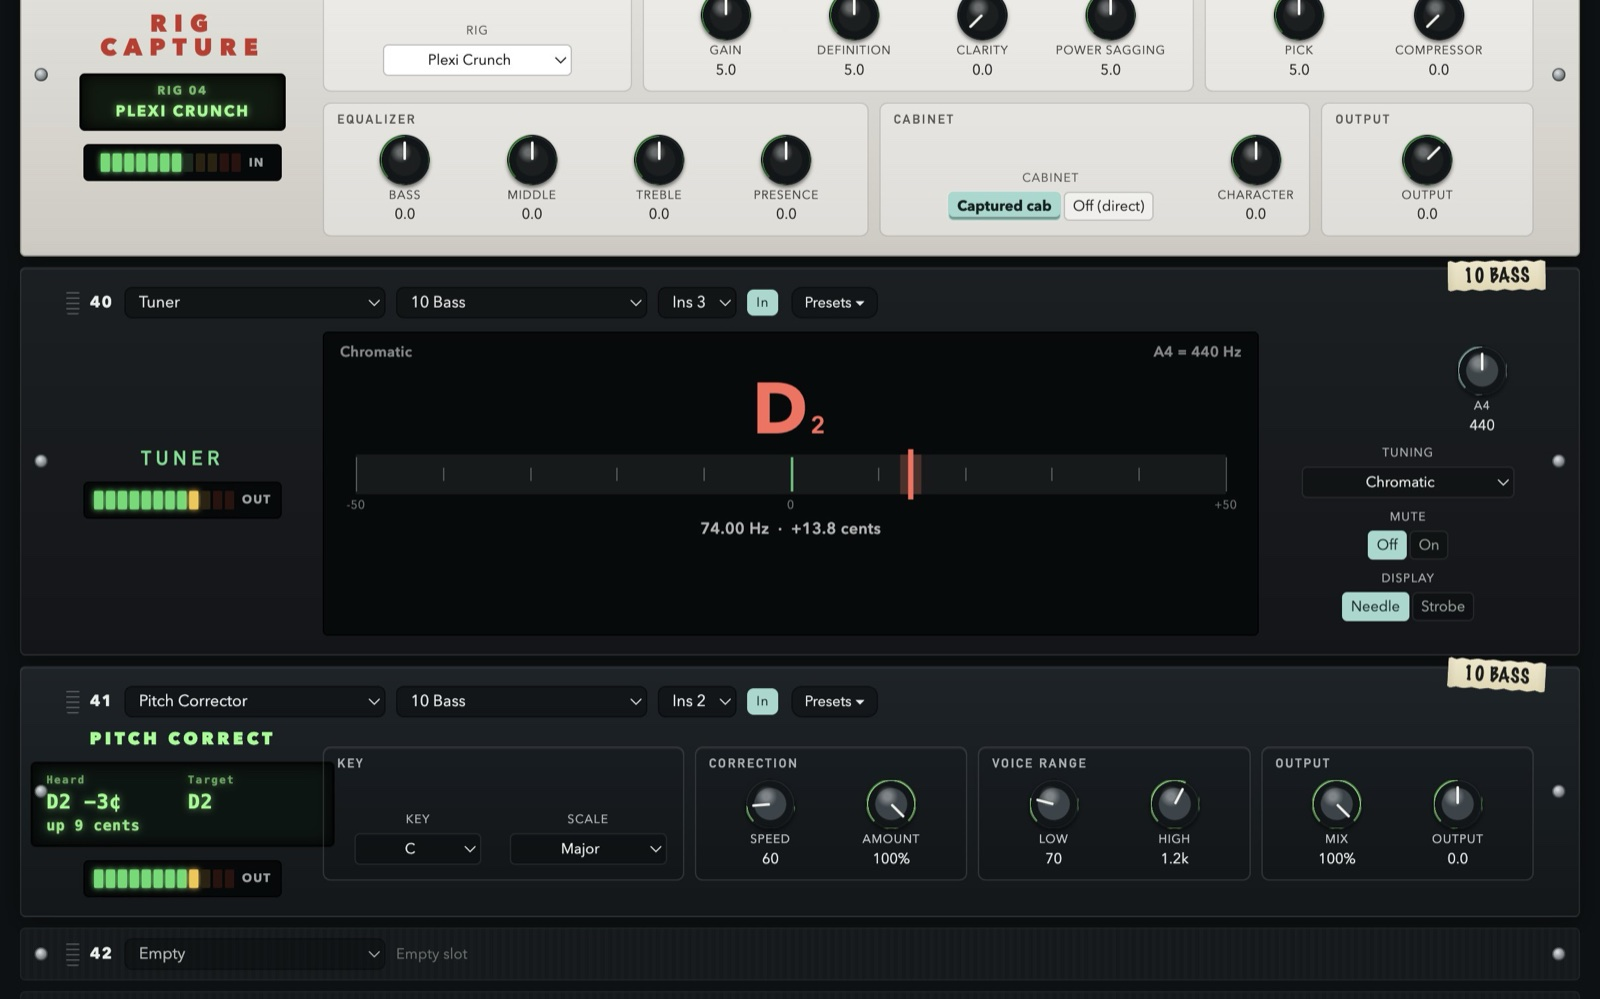
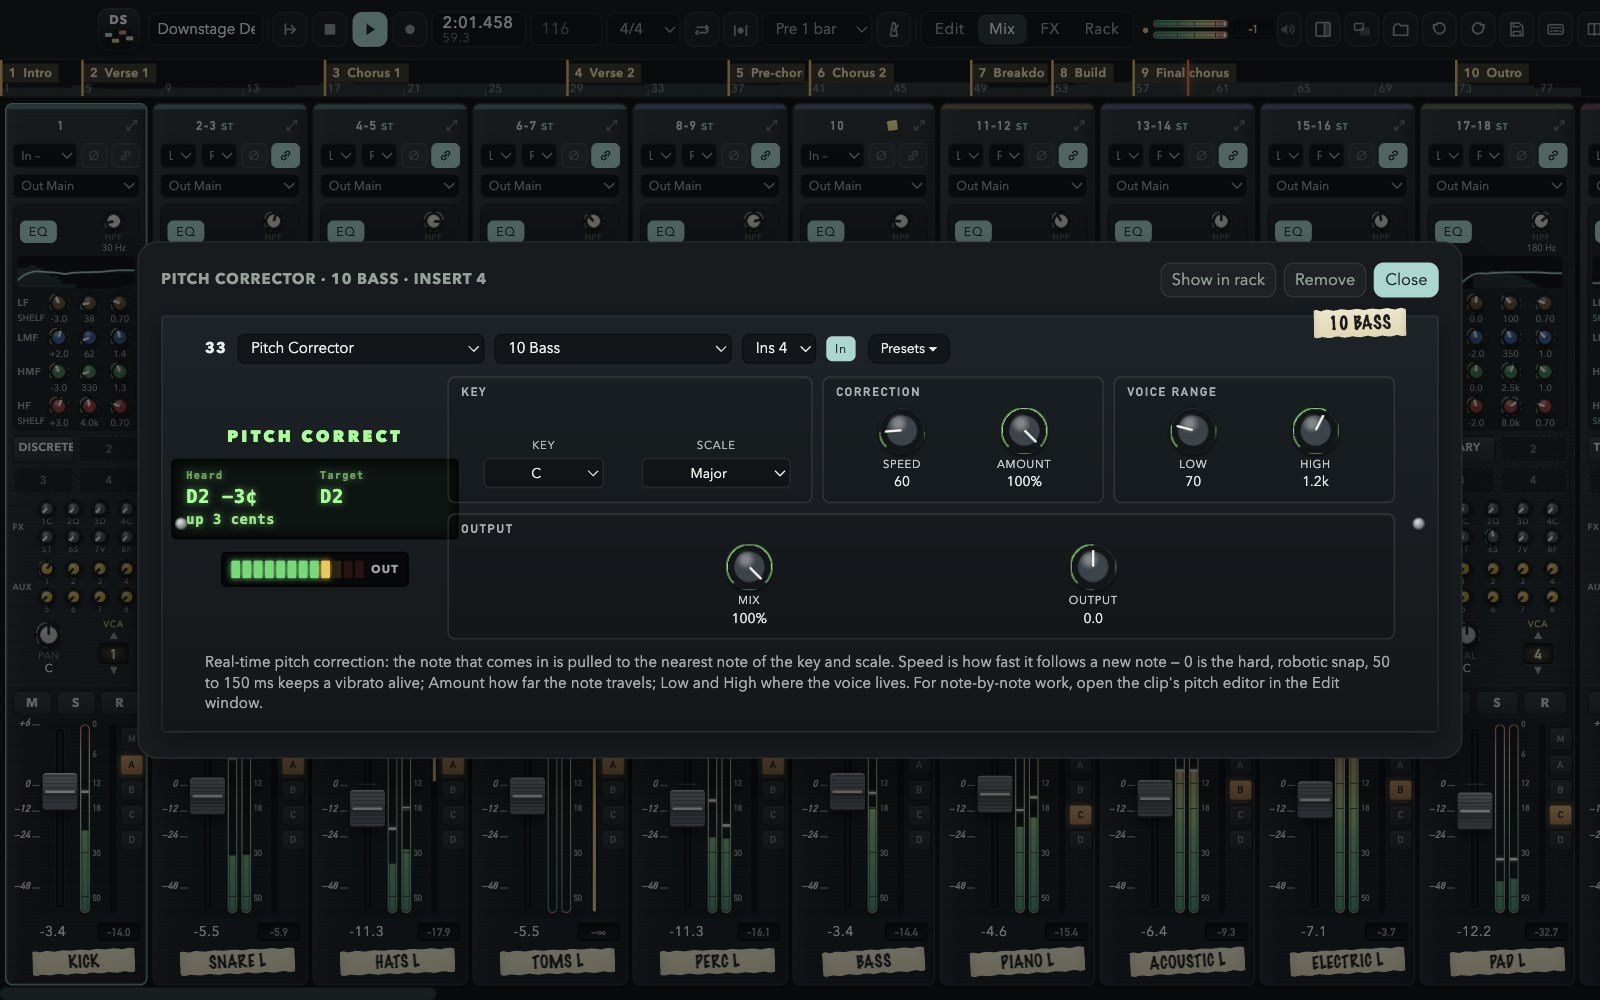
Gallery Fix

diff --git a/site/index.html b/site/index.html
@@ -346,7 +346,7 @@
           <figure class="slide"><span class="tape" style="--tilt:-2deg">Mix</span><button type="button" class="shot" aria-label="Enlarge: the console"><img src="assets/img/gallery/mix.jpg" alt="The Mix window: ten channel strips with EQ, inserts, FX and aux sends, VCA selectors, faders and meters during the final chorus" loading="eager" fetchpriority="low" width="1600" height="1000"></button><figcaption><b>THE CONSOLE</b><span>48 channels, click, groups, FX returns, VCAs, auxes and master, left to right, every section at the same height.</span></figcaption></figure>
           <figure class="slide"><span class="tape" style="--tilt:1.5deg">Edit</span><button type="button" class="shot" aria-label="Enlarge: the Edit window"><img src="assets/img/gallery/edit.jpg" alt="The Edit window during the final chorus: waveforms on every track, markers above, the playhead following the page" loading="lazy" width="1600" height="1000"></button><figcaption><b>EDIT</b><span>The arrangement with its markers, the grid, the takes under every track and the tools you expect where you expect them.</span></figcaption></figure>
           <figure class="slide"><span class="tape" style="--tilt:-1deg">Pitch editor</span><button type="button" class="shot" aria-label="Enlarge: the pitch editor"><img src="assets/img/gallery/pitch.jpg" alt="The pitch editor on a bass clip: detected notes on a piano roll over the waveform, snapped to C major" loading="lazy" width="1600" height="1000"></button><figcaption><b>PITCH ON THE TRACK</b><span>Detect the notes of a clip, drag them, snap them to a key and scale, or draw the pitch with a pencil. Nothing touches the file.</span></figcaption></figure>
-          <figure class="slide"><span class="tape" style="--tilt:1.5deg">Pitch Corrector</span><button type="button" class="shot" aria-label="Enlarge: the Pitch Corrector"><img src="assets/img/gallery/pitchfix.jpg" alt="The Pitch Corrector unit on the bass in the rack: key and scale, speed and the readout of the note heard, the target note and the cents" loading="lazy" width="1600" height="1000"></button><figcaption><b>PITCH CORRECTOR</b><span>The automatic one, for a live voice: a key, a scale, how fast it pulls, and a readout of the note it hears and where it is taking it.</span></figcaption></figure>
+          <figure class="slide"><span class="tape" style="--tilt:1.5deg">Pitch Corrector</span><button type="button" class="shot" aria-label="Enlarge: the Pitch Corrector"><img src="assets/img/gallery/pitchfix.jpg" alt="The Pitch Corrector opened full size from the bass channel insert, over the console: key and scale, speed and amount, voice range, and the readout of the note heard, the target note and the cents" loading="lazy" width="1600" height="1000"></button><figcaption><b>PITCH CORRECTOR</b><span>The automatic one, for a live voice, opened from the channel insert: a key, a scale, how fast it pulls, and a readout of the note it hears and where it is taking it.</span></figcaption></figure>
           <figure class="slide"><span class="tape" style="--tilt:2deg">Channel</span><button type="button" class="shot" aria-label="Enlarge: the full channel"><img src="assets/img/gallery/channel.jpg" alt="The full channel of the bass: the large EQ over the live analyser, three inserts with meters, FX and aux sends, routing and a yellow post-it with notes" loading="lazy" width="1600" height="1000"></button><figcaption><b>THE FULL CHANNEL</b><span>The big EQ over the analyser, four inserts, sixteen sends, routing, and a post-it for the notes that stay with the session.</span></figcaption></figure>
           <figure class="slide"><span class="tape" style="--tilt:-2deg">Crystal Hall</span><button type="button" class="shot" aria-label="Enlarge: the Crystal Hall and its remote"><img src="assets/img/gallery/crystal.jpg" alt="The Crystal Hall on FX bus 1 with its wired remote: red display, six faders, twelve program keys, Spin and Wander" loading="lazy" width="1600" height="1000"></button><figcaption><b>CRYSTAL HALL + REMOTE</b><span>The flagship digital hall of the eighties: twelve programs, six faders, the red display, Spin and Wander for a tail that never turns metallic.</span></figcaption></figure>
           <figure class="slide"><span class="tape" style="--tilt:1deg">Quad FX</span><button type="button" class="shot" aria-label="Enlarge: the Quad FX"><img src="assets/img/gallery/quadfx.jpg" alt="The Quad FX on FX bus 2 with its green display reading Chorus Hall, next to the Crystal Hall remote and the delay" loading="lazy" width="1600" height="1000"></button><figcaption><b>QUAD FX</b><span>Four effects in one rack space, EQ, chorus or flanger, delay and reverb in series: sixteen programs, from chorus halls to gated snares.</span></figcaption></figure>
